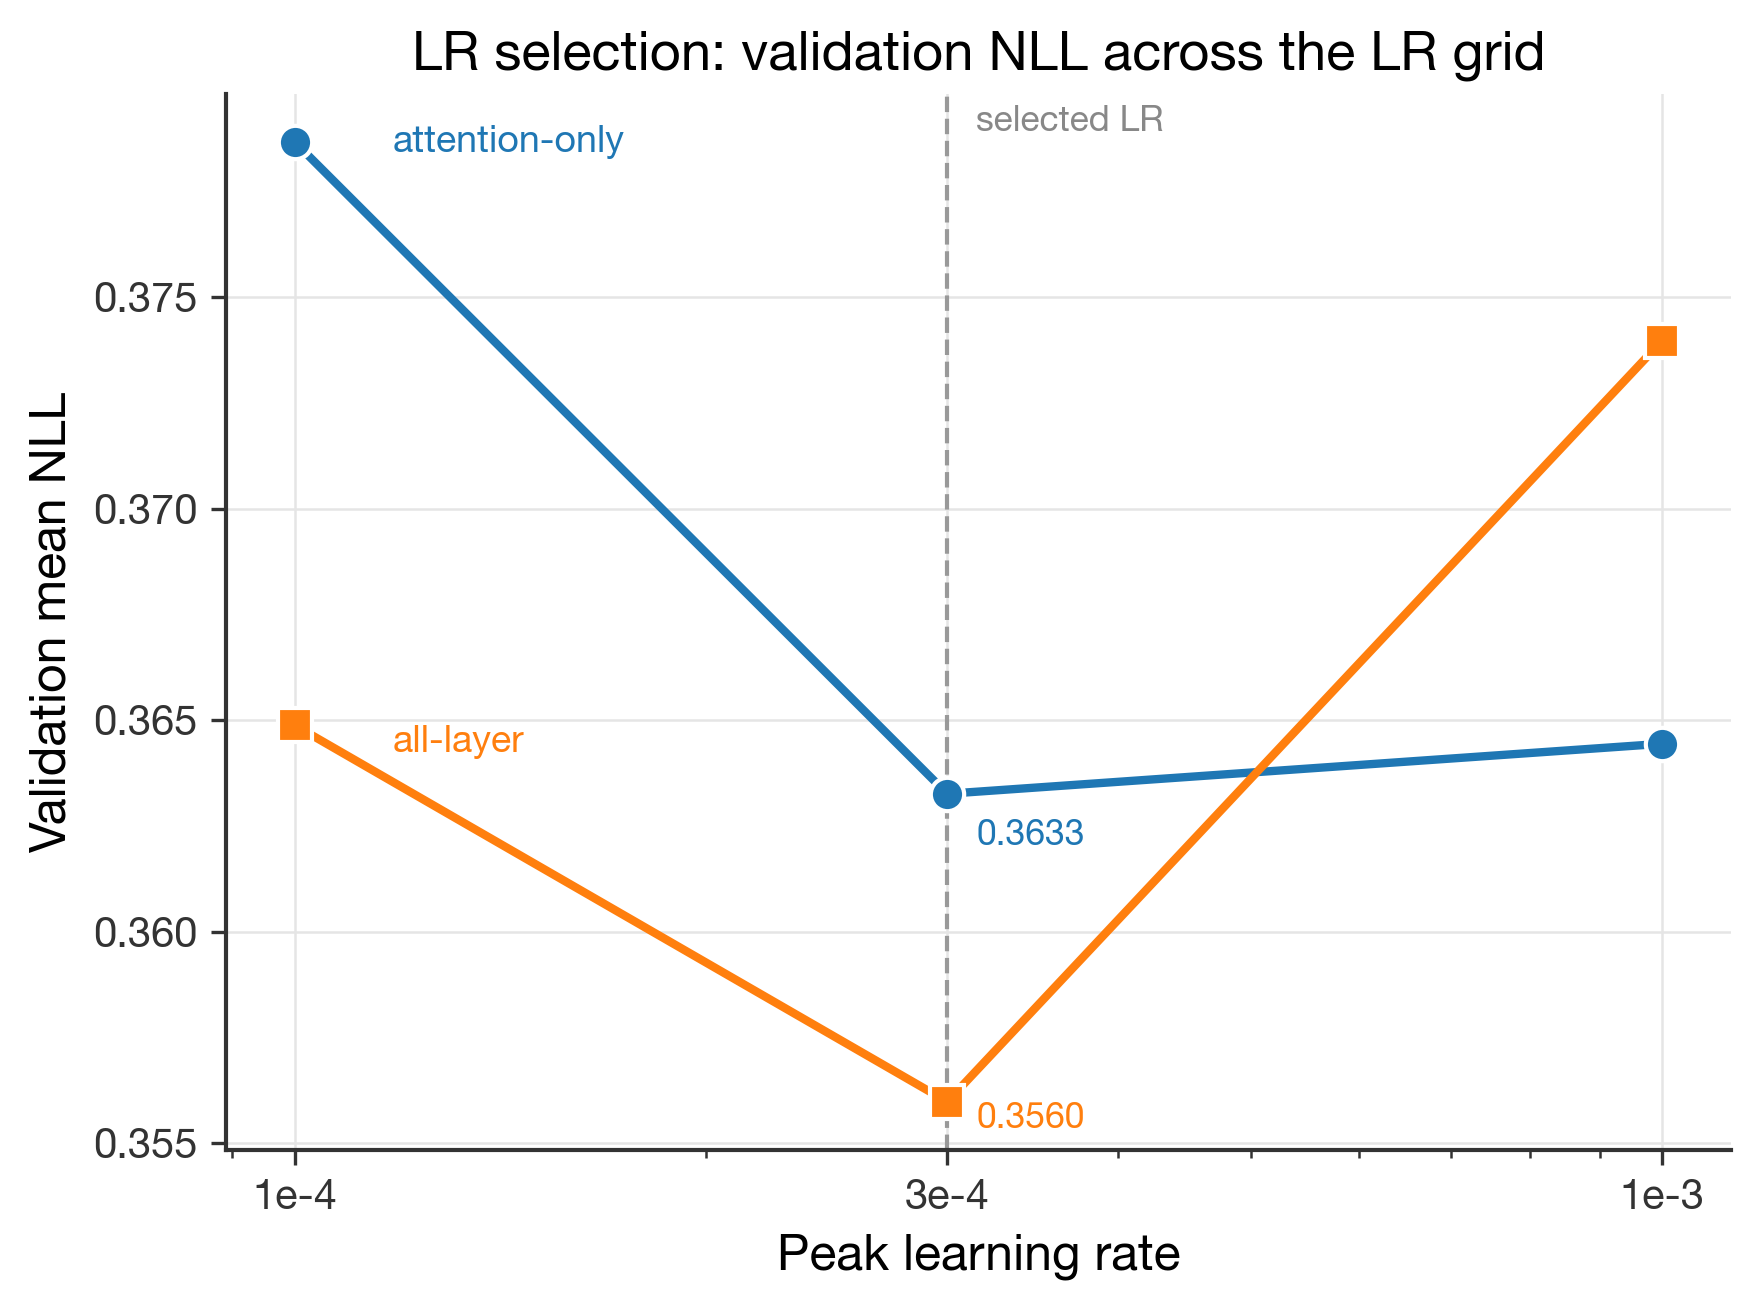
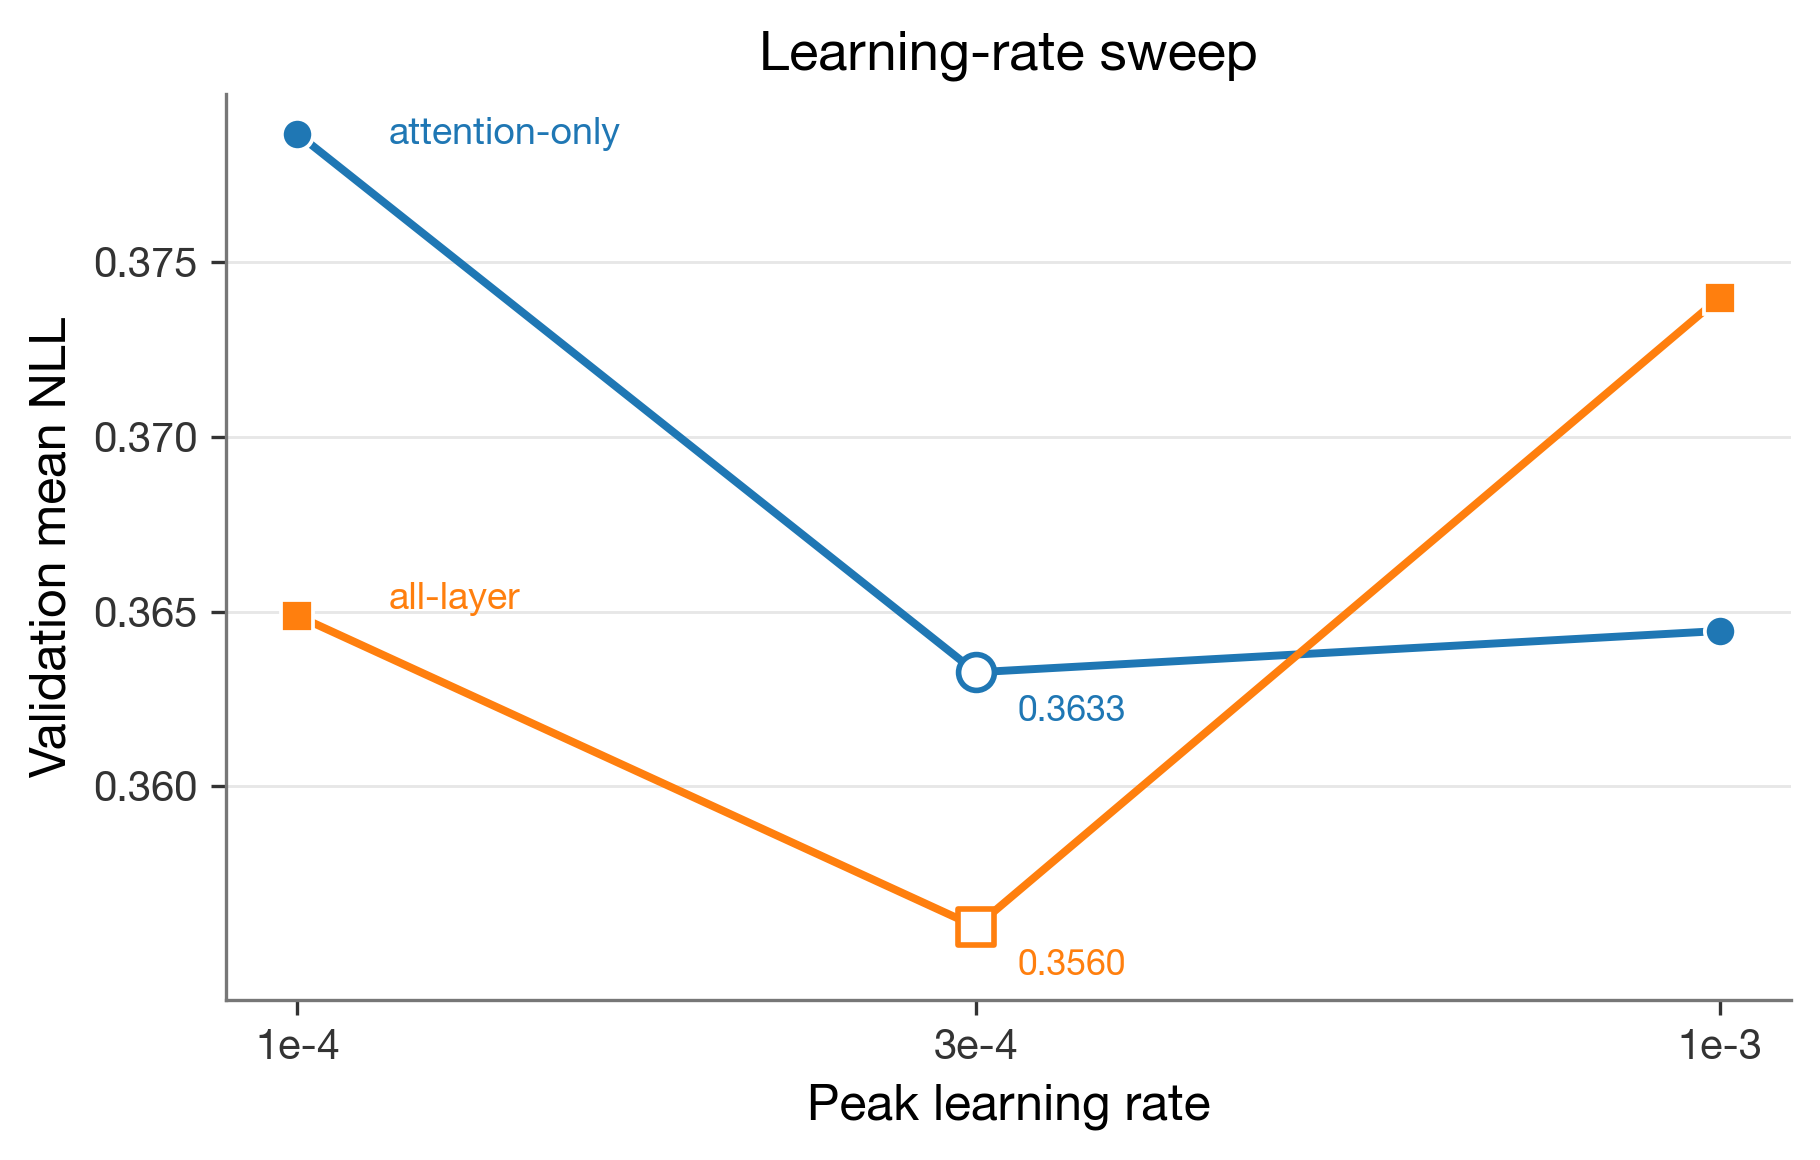
updated Figure 6 LR sweep

diff --git a/figures/fig_06_lr_selection.py b/figures/fig_06_lr_selection.py
@@ -15,7 +15,7 @@ from pathlib import Path
 from typing import Any
 
 import matplotlib.pyplot as plt
-from matplotlib.transforms import blended_transform_factory
+from matplotlib.ticker import NullLocator
 
 from figures.helpers import (
     MARKERS,
@@ -51,11 +51,10 @@ def build(output_root: Path) -> None:
 
     selected_lr = LR_VALUES[LR_LABELS.index(SELECTED_LR_LABEL)]
     cond_display = {"attention_only": "attention-only", "all_layer": "all-layer"}
-    callout_y_offset = {"attention_only": -0.0006, "all_layer": 0.0}
+    callout_y_offset = {"attention_only": -0.00065, "all_layer": -0.00065}
+    callout_va = {"attention_only": "top", "all_layer": "top"}
 
-    fig, ax = plt.subplots(figsize=(6.0, 4.5))
-
-    ax.axvline(selected_lr, color="#999999", linestyle="--", linewidth=1.0, zorder=2)
+    fig, ax = plt.subplots(figsize=(6.2, 4.0))
 
     for cond in CONDITIONS:
         color = PALETTE[cond]
@@ -63,14 +62,23 @@ def build(output_root: Path) -> None:
         nlls = [nll_grid[(cond, lr)] for lr in LR_LABELS]
         ax.plot(
             LR_VALUES, nlls,
-            color=color, linewidth=2.0, marker=marker, markersize=8,
-            markeredgecolor="white", markeredgewidth=1.0, zorder=3,
+            color=color, linewidth=1.9, marker=marker, markersize=7.5,
+            markeredgecolor="white", markeredgewidth=0.9, zorder=3,
         )
 
-    label_va = {"attention_only": "center", "all_layer": "top"}
+    for cond in CONDITIONS:
+        color = PALETTE[cond]
+        marker = MARKERS[cond]
+        ax.scatter(
+            [selected_lr], [nll_grid[(cond, SELECTED_LR_LABEL)]],
+            s=74, marker=marker, facecolors="white", edgecolors=color,
+            linewidths=1.35, zorder=4,
+        )
+
+    label_va = {"attention_only": "center", "all_layer": "bottom"}
     for cond in CONDITIONS:
         ax.text(
-            LR_VALUES[0] * 1.18, nll_grid[(cond, "1e-4")],
+            LR_VALUES[0] * 1.16, nll_grid[(cond, "1e-4")],
             cond_display[cond],
             color=PALETTE[cond], fontsize=9,
             va=label_va[cond], ha="left",
@@ -79,25 +87,27 @@ def build(output_root: Path) -> None:
     for cond in CONDITIONS:
         nll = nll_grid[(cond, SELECTED_LR_LABEL)]
         ax.text(
-            selected_lr * 1.05, nll + callout_y_offset[cond],
+            selected_lr * 1.07, nll + callout_y_offset[cond],
             f"{nll:.4f}",
             color=PALETTE[cond], fontsize=8.5,
-            va="top", ha="left",
+            va=callout_va[cond], ha="left",
         )
-
-    trans = blended_transform_factory(ax.transData, ax.transAxes)
-    ax.text(
-        selected_lr * 1.05, 0.99, "selected LR",
-        transform=trans, color="#888888", fontsize=8.5,
-        va="top", ha="left",
-    )
 
     ax.set_xscale("log")
     ax.set_xticks(LR_VALUES)
     ax.set_xticklabels(LR_LABELS)
+    ax.xaxis.set_minor_locator(NullLocator())
+    ax.set_ylim(0.3539, 0.3798)
+    ax.set_yticks([0.360, 0.365, 0.370, 0.375])
     ax.set_xlabel("Peak learning rate")
     ax.set_ylabel("Validation mean NLL")
-    ax.set_title("LR selection: validation NLL across the LR grid")
+    ax.set_title("Learning-rate sweep")
+    ax.grid(False)
+    ax.yaxis.grid(True, color="#e7e7e7", linewidth=0.7)
+    ax.spines["left"].set_color("#777777")
+    ax.spines["left"].set_linewidth(0.8)
+    ax.spines["bottom"].set_color("#777777")
+    ax.spines["bottom"].set_linewidth(0.8)
     fig.tight_layout()
 
     plotted_data = [
@@ -128,7 +138,7 @@ def _caption_markdown(nll_grid: dict[tuple[str, str], float]) -> str:
 
 ## Caption
 
-Validation NLL on the small-slice learning-rate sweep used to select peak LR before the main training runs (512 train rows, 128 validation rows, seed 7). Both attention-only LoRA (blue, circles) and all-layer LoRA (orange, squares) minimize at 3e-4 — the selected peak LR for both conditions, marked by the dashed line. The valley shapes differ sharply: attention-only NLL is nearly flat after the minimum ({att_sel:.4f} at 3e-4, {att_1e3:.4f} at 1e-3, Δ +{att_1e3 - att_sel:.3f}), while all-layer rises steeply ({al_sel:.4f} at 3e-4, {al_1e3:.4f} at 1e-3, Δ +{al_1e3 - al_sel:.3f}), indicating greater LR sensitivity under the higher-capacity adapter.
+Validation NLL on the small-slice learning-rate sweep used to select peak LR before the main training runs (512 train rows, 128 validation rows, seed 7). Both attention-only LoRA (blue, circles) and all-layer LoRA (orange, squares) minimize at 3e-4, highlighted by open markers. The valley shapes differ sharply: attention-only NLL is nearly flat after the minimum ({att_sel:.4f} at 3e-4, {att_1e3:.4f} at 1e-3, Δ +{att_1e3 - att_sel:.3f}), while all-layer rises steeply ({al_sel:.4f} at 3e-4, {al_1e3:.4f} at 1e-3, Δ +{al_1e3 - al_sel:.3f}), indicating greater LR sensitivity under the higher-capacity adapter.
 
 ## Marker encoding
 
@@ -136,7 +146,7 @@ Validation NLL on the small-slice learning-rate sweep used to select peak LR bef
 | --- | --- | --- | --- |
 | `attention_only` | `#1f77b4` | circle (filled) | per-LR validation NLL on the small-slice sweep |
 | `all_layer` | `#ff7f0e` | square (filled) | per-LR validation NLL on the small-slice sweep |
-| dashed vertical line | `#999999` | dashed | selected peak LR (3e-4); NLL values annotated beside each condition's minimum marker |
+| open markers | condition color | outlined circle/square | selected peak LR (3e-4); NLL values annotated beside each condition's minimum marker |
 
 ## Source files
 

diff --git a/artifacts/figures/fig_06_lr_selection/fig_06_lr_selection.md b/artifacts/figures/fig_06_lr_selection/fig_06_lr_selection.md
@@ -2,7 +2,7 @@
 
 ## Caption
 
-Validation NLL on the small-slice learning-rate sweep used to select peak LR before the main training runs (512 train rows, 128 validation rows, seed 7). Both attention-only LoRA (blue, circles) and all-layer LoRA (orange, squares) minimize at 3e-4 — the selected peak LR for both conditions, marked by the dashed line. The valley shapes differ sharply: attention-only NLL is nearly flat after the minimum (0.3633 at 3e-4, 0.3644 at 1e-3, Δ +0.001), while all-layer rises steeply (0.3560 at 3e-4, 0.3740 at 1e-3, Δ +0.018), indicating greater LR sensitivity under the higher-capacity adapter.
+Validation NLL on the small-slice learning-rate sweep used to select peak LR before the main training runs (512 train rows, 128 validation rows, seed 7). Both attention-only LoRA (blue, circles) and all-layer LoRA (orange, squares) minimize at 3e-4, highlighted by open markers. The valley shapes differ sharply: attention-only NLL is nearly flat after the minimum (0.3633 at 3e-4, 0.3644 at 1e-3, Δ +0.001), while all-layer rises steeply (0.3560 at 3e-4, 0.3740 at 1e-3, Δ +0.018), indicating greater LR sensitivity under the higher-capacity adapter.
 
 ## Marker encoding
 
@@ -10,7 +10,7 @@ Validation NLL on the small-slice learning-rate sweep used to select peak LR bef
 | --- | --- | --- | --- |
 | `attention_only` | `#1f77b4` | circle (filled) | per-LR validation NLL on the small-slice sweep |
 | `all_layer` | `#ff7f0e` | square (filled) | per-LR validation NLL on the small-slice sweep |
-| dashed vertical line | `#999999` | dashed | selected peak LR (3e-4); NLL values annotated beside each condition's minimum marker |
+| open markers | condition color | outlined circle/square | selected peak LR (3e-4); NLL values annotated beside each condition's minimum marker |
 
 ## Source files
 
